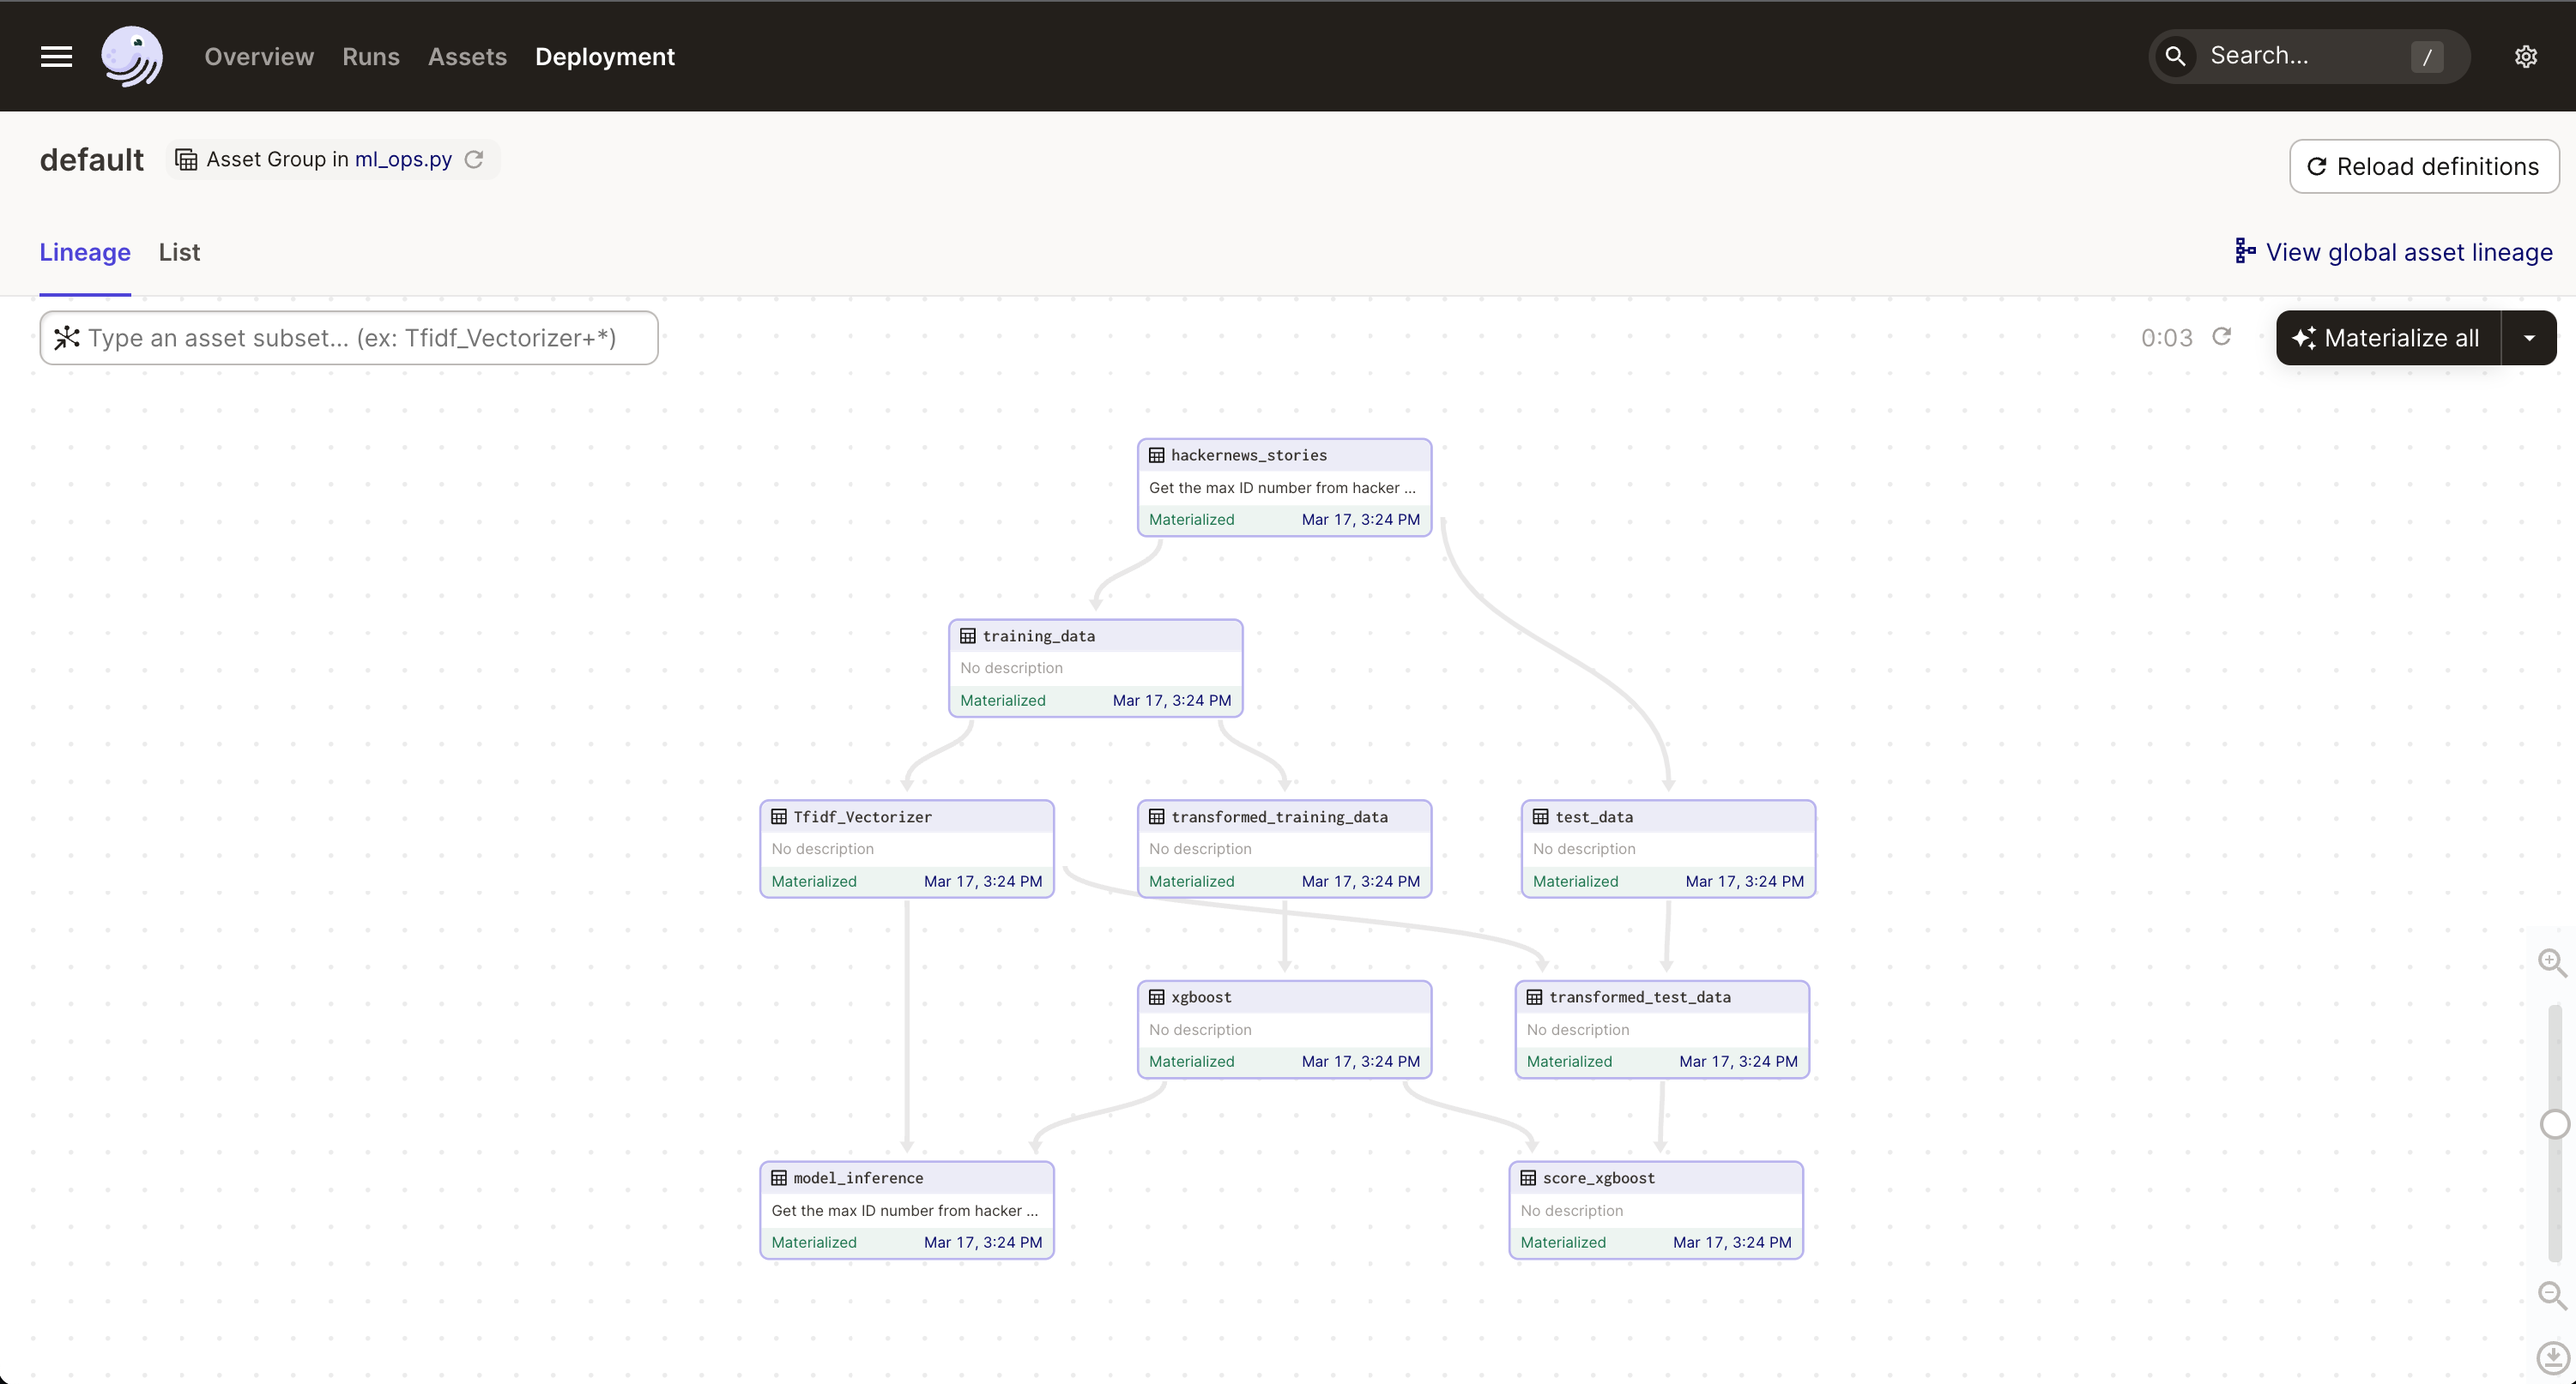
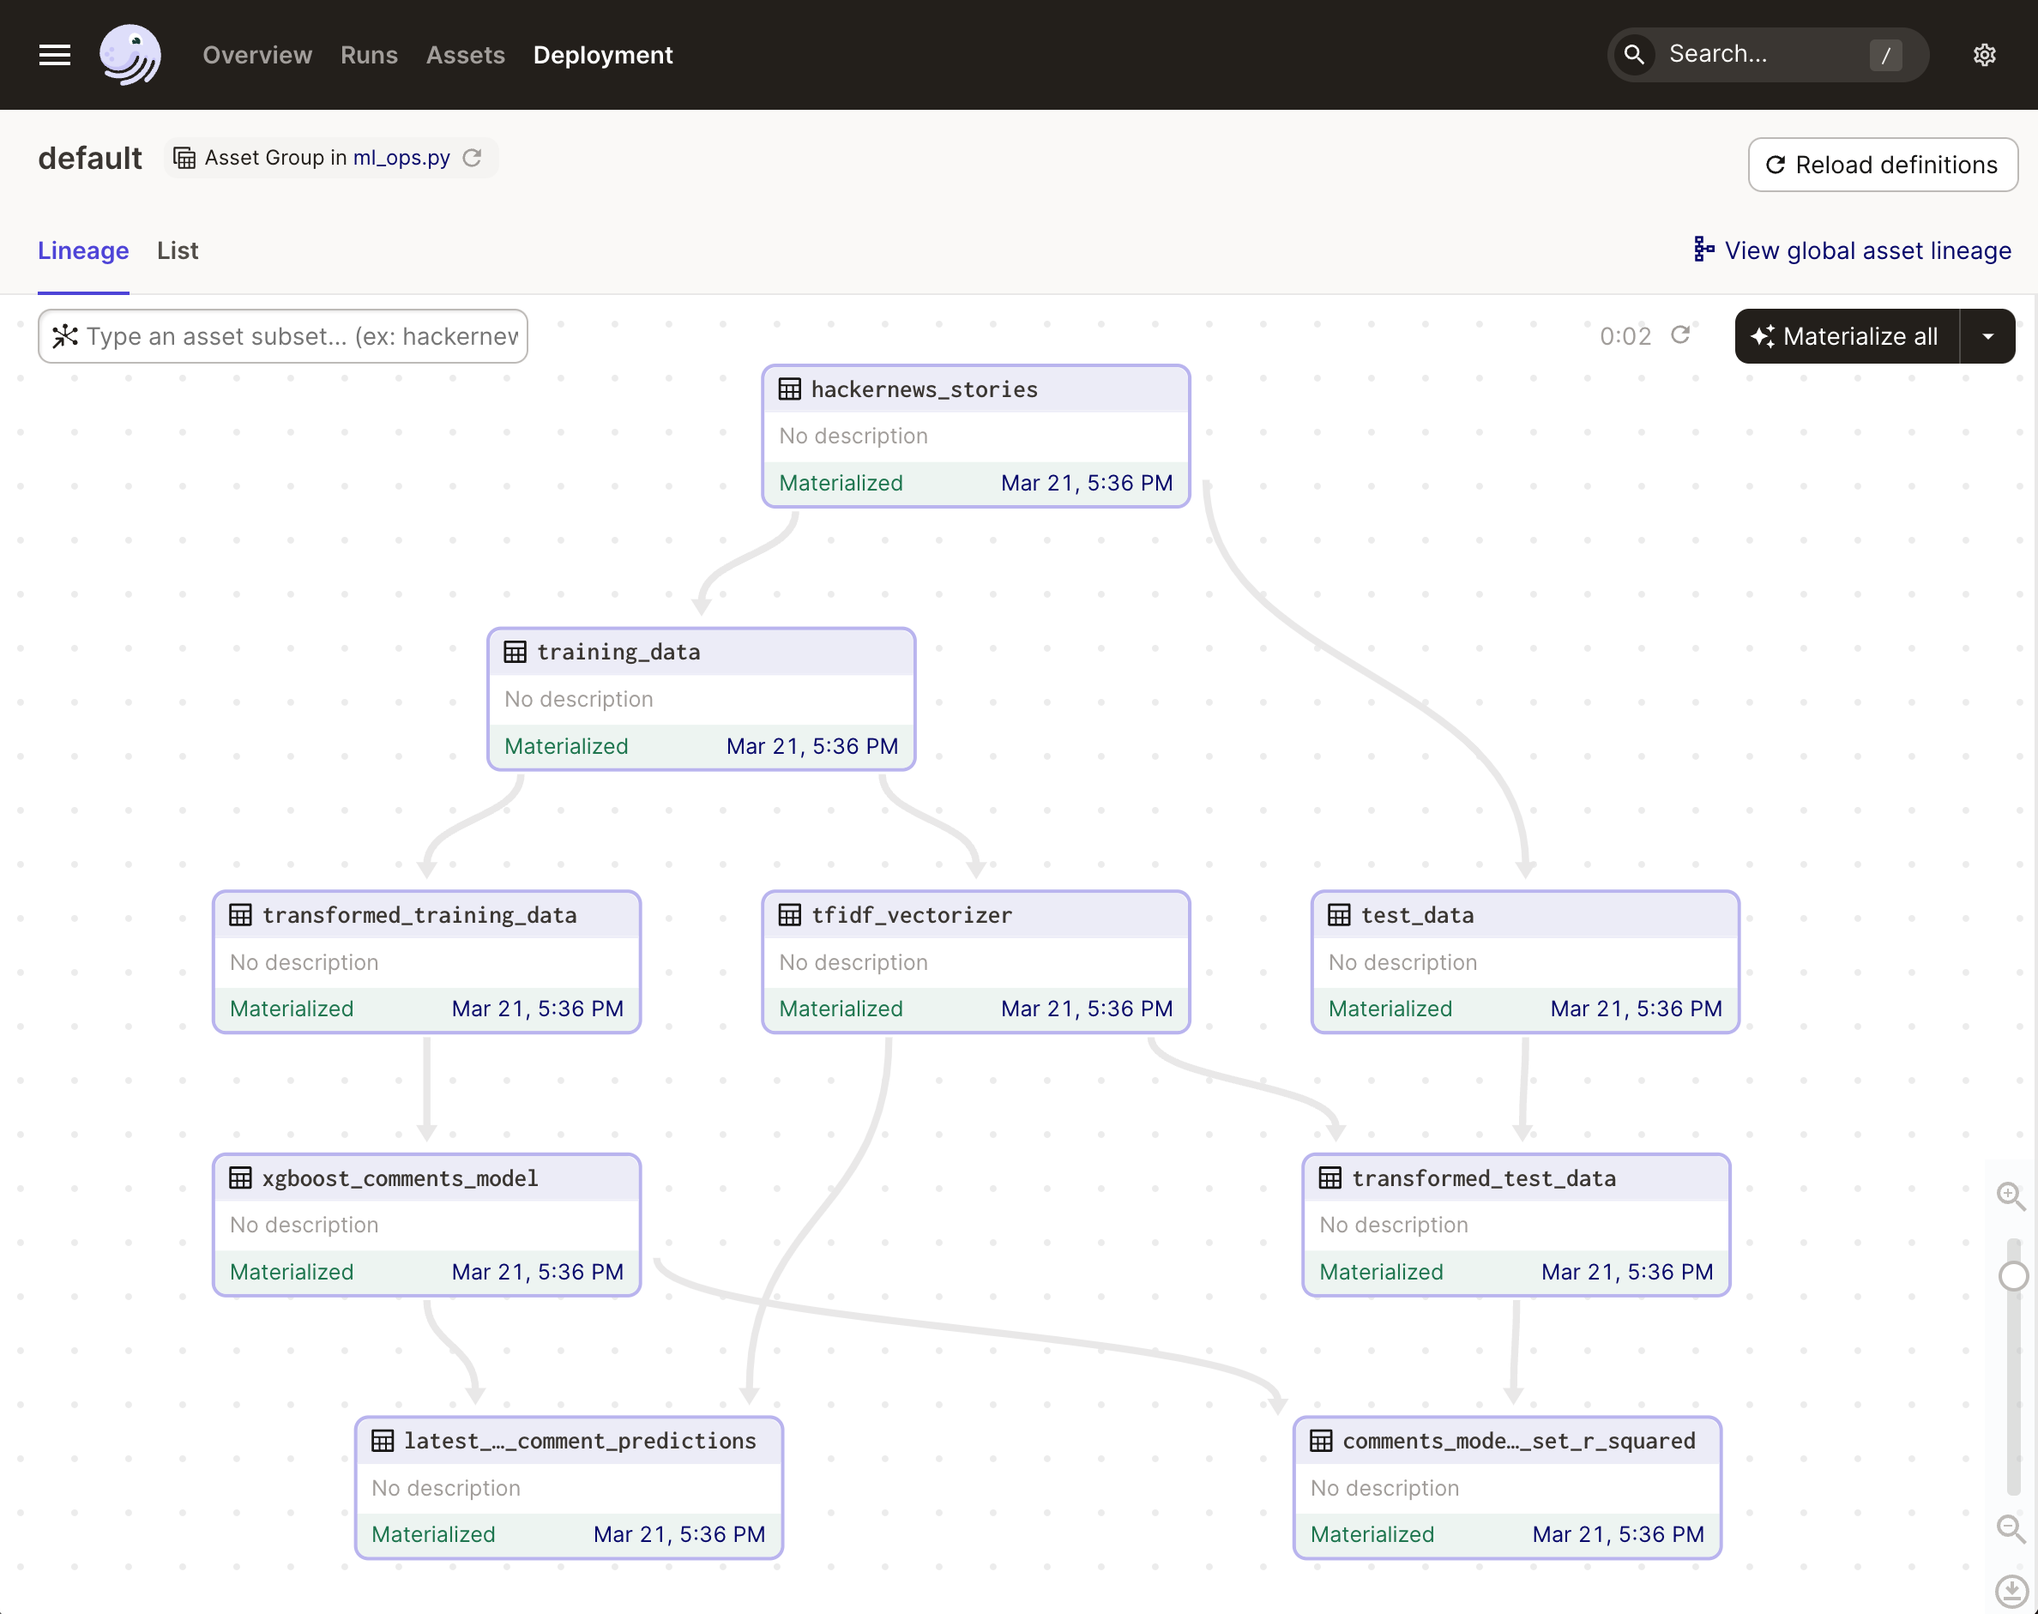
updated picture

diff --git a/examples/docs_snippets/docs_snippets/guides/dagster/ml_ops/ml_ops.py b/examples/docs_snippets/docs_snippets/guides/dagster/ml_ops/ml_ops.py
@@ -2,11 +2,11 @@
 
 ## data_ingestion_start
 import requests
-from dagster import asset, FreshnessPolicy
+from dagster import asset
 import pandas as pd
 
 
-@asset(freshness_policy=FreshnessPolicy(maximum_lag_minutes=10))
+@asset
 def hackernews_stories():
     # Get the max ID number from hacker news
     latest_item = requests.get(
@@ -56,7 +56,7 @@ import numpy as np
 
 
 @multi_asset(
-    outs={"tfidf_Vectorizer": AssetOut(), "transformed_training_data": AssetOut()}
+    outs={"tfidf_vectorizer": AssetOut(), "transformed_training_data": AssetOut()}
 )
 def transformed_train_data(training_data):
     X_train, y_train = training_data
@@ -70,10 +70,10 @@ def transformed_train_data(training_data):
 
 
 @asset
-def transformed_test_data(test_data, tfidf_Vectorizer):
+def transformed_test_data(test_data, tfidf_vectorizer):
     X_test, y_test = test_data
     # Use the fitted tokenizer to transform the test dataset
-    transformed_X_test = tfidf_Vectorizer.transform(X_test)
+    transformed_X_test = tfidf_vectorizer.transform(X_test)
     transformed_y_test = np.array(y_test)
     y_test = y_test.fillna(0)
     transformed_y_test = np.array(y_test)
@@ -112,8 +112,8 @@ def comments_model_test_set_r_squared(transformed_test_data, xgboost_comments_mo
 
 
 ## inference_start
-@asset(freshness_policy=FreshnessPolicy(maximum_lag_minutes=60))
-def latest_story_comment_predictions(xgboost, Tfidf_Vectorizer):
+@asset
+def latest_story_comment_predictions(xgboost_comments_model, tfidf_vectorizer):
     # Get the max ID number from hacker news
     latest_item = requests.get(
         f"https://hacker-news.firebaseio.com/v0/maxitem.json"
@@ -133,8 +133,8 @@ def latest_story_comment_predictions(xgboost, Tfidf_Vectorizer):
         df = df[~df.title.isna()]
     inference_x = df.title
     # Transform the new story titles using the existing vectorizer
-    inference_x = Tfidf_Vectorizer.transform(inference_x)
-    return xgboost.predict(inference_x)
+    inference_x = tfidf_vectorizer.transform(inference_x)
+    return xgboost_comments_model.predict(inference_x)
 
 
 ## inference_end
